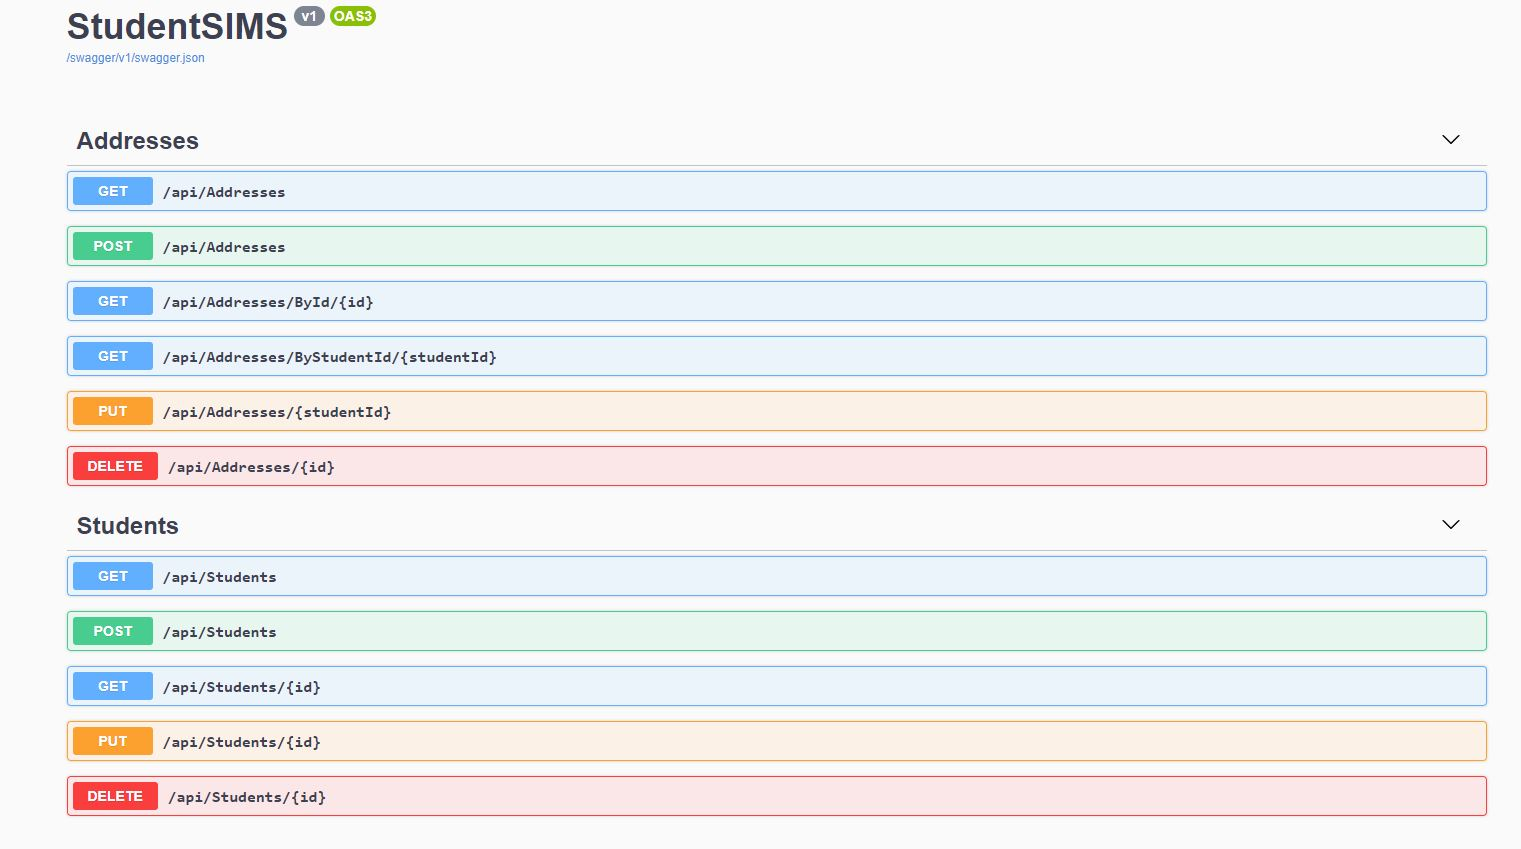
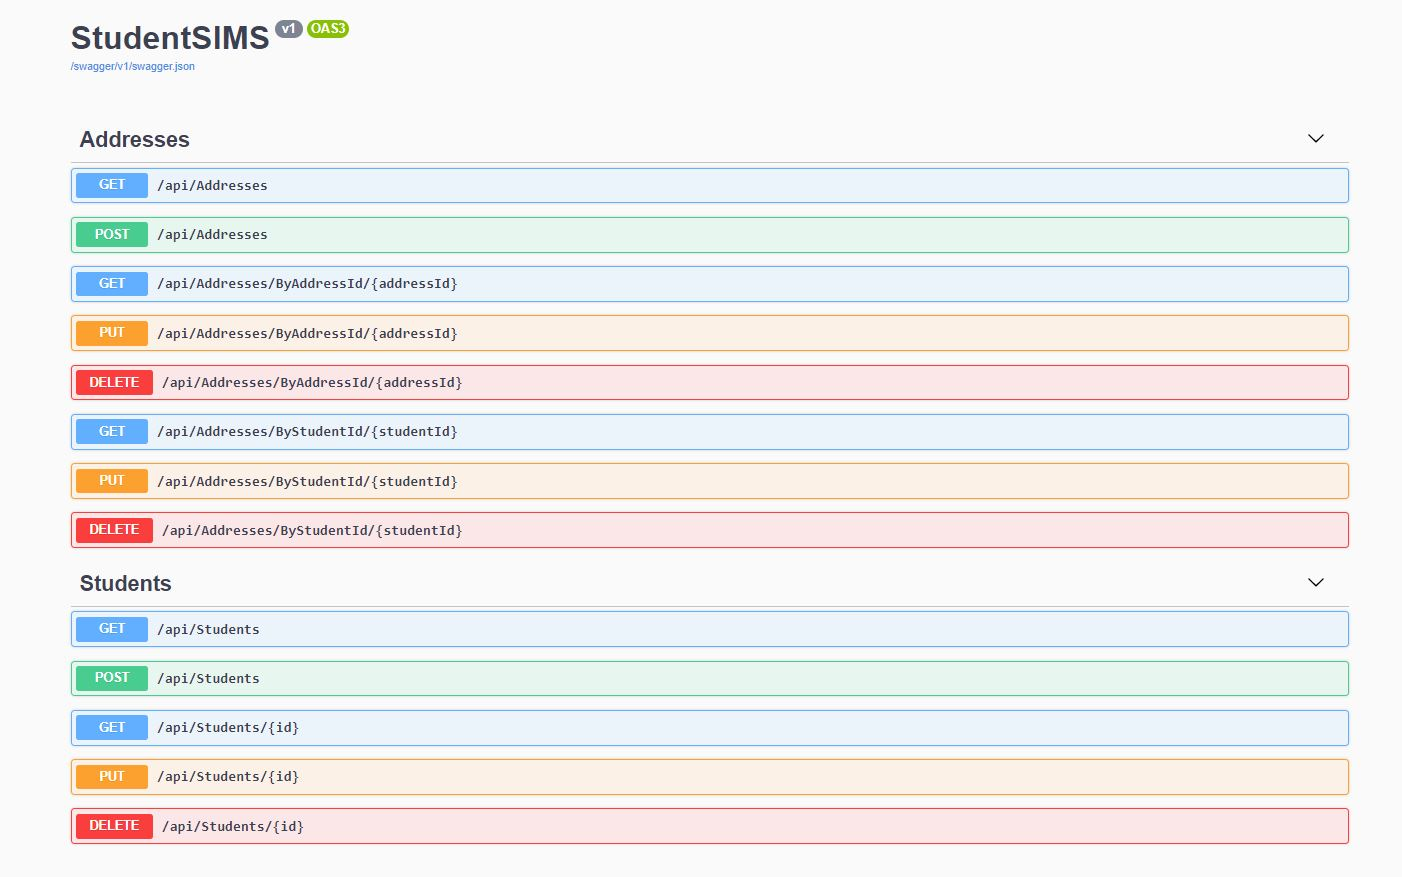
Added new endpoints + updated endpoints screenshot

Changed region(s): [[0.0307, 0.1531, 0.9815, 0.98], [0.0307, 0.0, 0.2454, 0.0919]]

diff --git a/StudentSIMS/Controllers/AddressesController.cs b/StudentSIMS/Controllers/AddressesController.cs
@@ -27,10 +27,10 @@ namespace StudentSIMS.Controllers
             return await _context.Addresses.ToListAsync();
         }
 
-        [HttpGet("ById/{id}")]
-        public async Task<ActionResult<Address>> GetAddressById(int id)
+        [HttpGet("ByAddressId/{addressId}")]
+        public async Task<ActionResult<Address>> GetAddressById(int addressId)
         {
-            var address = await _context.Addresses.FindAsync(id);
+            var address = await _context.Addresses.FindAsync(addressId);
 
             if (address == null)
             {
@@ -53,8 +53,42 @@ namespace StudentSIMS.Controllers
             return address;
         }
 
-        [HttpPut("{studentId}")]
-        public async Task<IActionResult> PutAddress(int studentId, Address address)
+        [HttpPut("ByAddressId/{addressId}")]
+        public async Task<IActionResult> PutAddressById(int addressId, Address address)
+        {
+            if (addressId != address.Id)
+            {
+                return BadRequest();
+            }
+
+            if (!AddressExists(address.Id))
+            {
+                return BadRequest();
+            }
+
+            _context.Entry(address).State = EntityState.Modified;
+
+            try
+            {
+                await _context.SaveChangesAsync();
+            }
+            catch (DbUpdateConcurrencyException)
+            {
+                if (!AddressExists(address.Id))
+                {
+                    return NotFound();
+                }
+                else
+                {
+                    throw;
+                }
+            }
+
+            return NoContent();
+        }
+
+        [HttpPut("ByStudentId/{studentId}")]
+        public async Task<IActionResult> PutAddressByStudentId(int studentId, Address address)
         {
             if (studentId != address.StudentId)
             {
@@ -99,7 +133,7 @@ namespace StudentSIMS.Controllers
 
             if (student == null)
             {
-                return NotFound();
+                return BadRequest();
             }
 
             var studentAddress = await _context.Addresses.FirstOrDefaultAsync(a => a.StudentId == address.StudentId);
@@ -114,10 +148,10 @@ namespace StudentSIMS.Controllers
             return CreatedAtAction("GetAddress", new { id = address.Id }, address);
         }
 
-        [HttpDelete("{id}")]
-        public async Task<ActionResult<Address>> DeleteAddress(int id)
+        [HttpDelete("ByAddressId/{addressId}")]
+        public async Task<ActionResult<Address>> DeleteAddressById(int addressId)
         {
-            var address = await _context.Addresses.FindAsync(id);
+            var address = await _context.Addresses.FindAsync(addressId);
             if (address == null)
             {
                 return NotFound();
@@ -128,6 +162,28 @@ namespace StudentSIMS.Controllers
 
             return address;
         }
+
+        [HttpDelete("ByStudentId/{studentId}")]
+        public async Task<ActionResult<Address>> DeleteAddressByStudentId(int studentId)
+        {
+            var student = await _context.Students.FirstOrDefaultAsync(s => s.StudentId == studentId);
+            if (student == null)
+            {
+                return BadRequest();
+            }
+
+            var address = await _context.Addresses.FirstOrDefaultAsync(a => a.StudentId == student.StudentId);
+            if (address == null)
+            {
+                return NotFound();
+            }
+
+            _context.Addresses.Remove(address);
+            await _context.SaveChangesAsync();
+
+            return address;
+        }
+
 
         private bool AddressExists(int id)
         {
